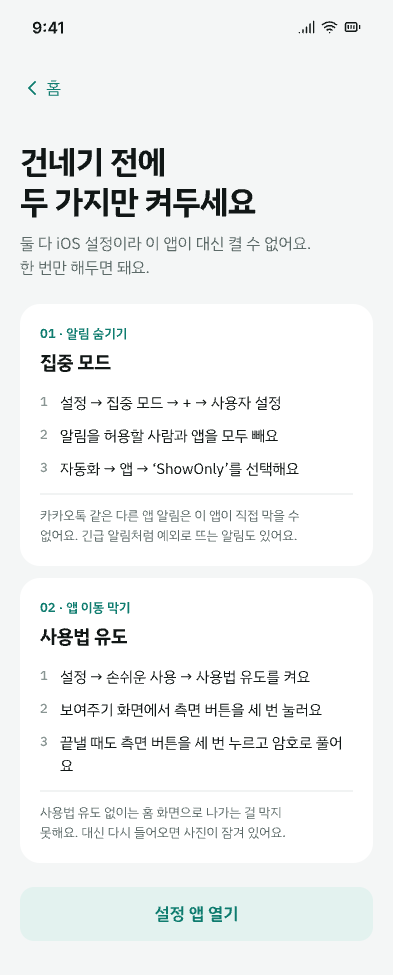
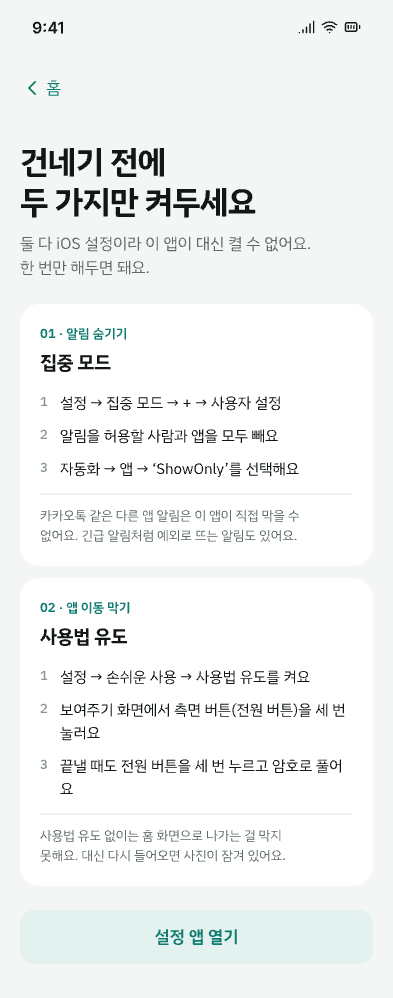
Guide: clarify side button is the power button

diff --git a/ShowOnly/Features/Settings/ProtectionGuideView.swift b/ShowOnly/Features/Settings/ProtectionGuideView.swift
@@ -37,8 +37,8 @@ struct ProtectionGuideView: View {
                         title: "사용법 유도",
                         steps: [
                             "설정 → 손쉬운 사용 → 사용법 유도를 켜요",
-                            "보여주기 화면에서 측면 버튼을 세 번 눌러요",
-                            "끝낼 때도 측면 버튼을 세 번 누르고 암호로 풀어요"
+                            "보여주기 화면에서 측면 버튼(전원 버튼)을 세 번 눌러요",
+                            "끝낼 때도 전원 버튼을 세 번 누르고 암호로 풀어요"
                         ],
                         limit: "사용법 유도 없이는 홈 화면으로 나가는 걸 막지 못해요. 대신 다시 들어오면 사진이 잠겨 있어요."
                     )
